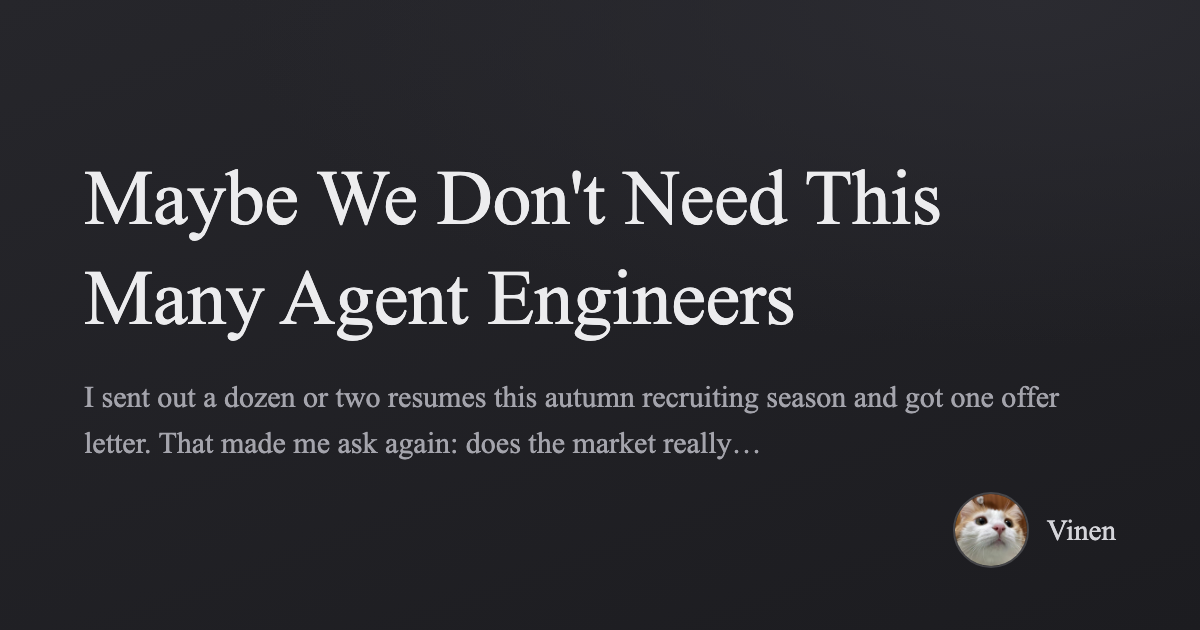
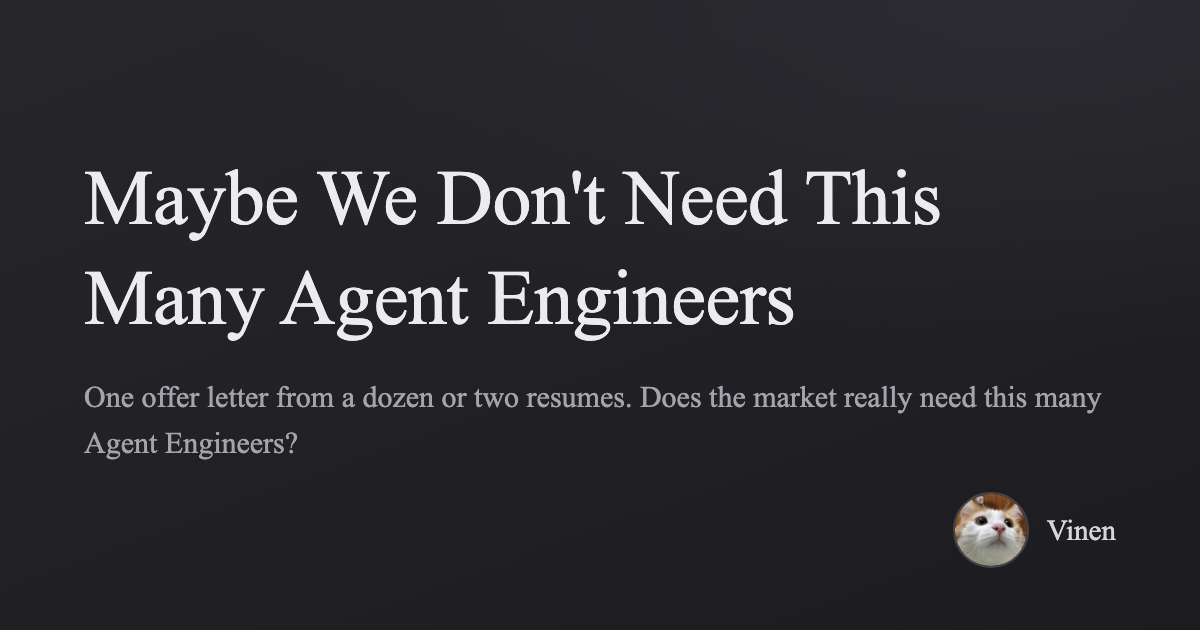
Card summary snaps to sentence end; add ogDescription

Changed region(s): [[0.0617, 0.6032, 0.925, 0.6635], [0.0617, 0.6937, 0.6167, 0.7238]]

diff --git a/posts/2026-10-do-we-need-so-many-agent-engineers/index.en.md b/posts/2026-10-do-we-need-so-many-agent-engineers/index.en.md
@@ -1,5 +1,6 @@
 ---
 title: "Maybe We Don't Need This Many Agent Engineers"
+ogDescription: "One offer letter from a dozen or two resumes. Does the market really need this many Agent Engineers?"
 date: 2026 年 10 月 28 日
 footerLine: "Vinen's Blog — About Agent, Career Choices · Written October 28, 2026"
 lede: "I sent out a dozen or two resumes this autumn recruiting season and got one offer letter. That made me ask again: does the market really need this many Agent Engineers?"
